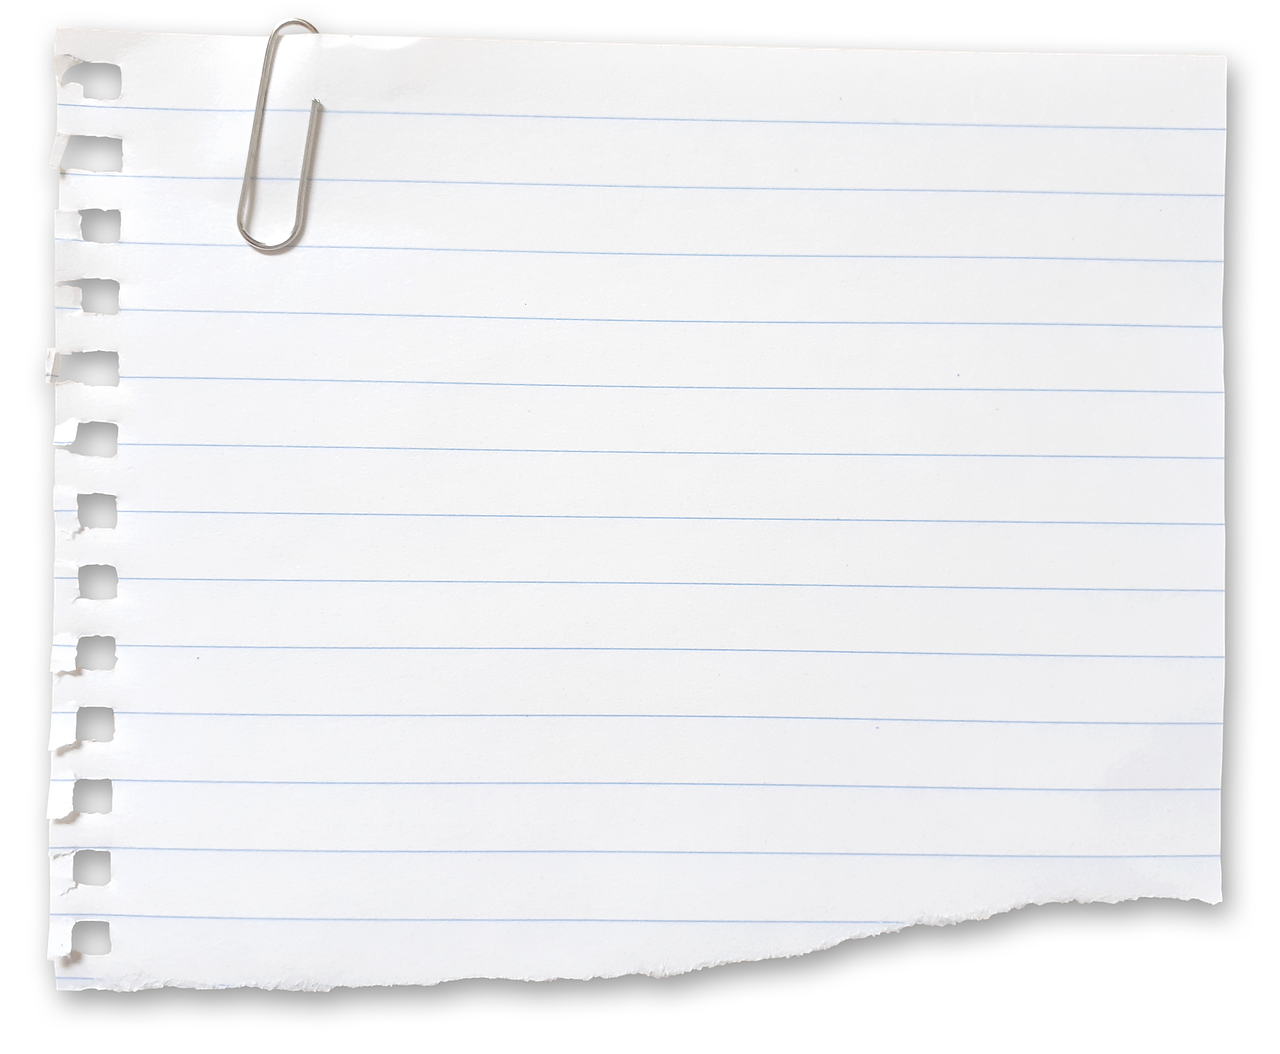
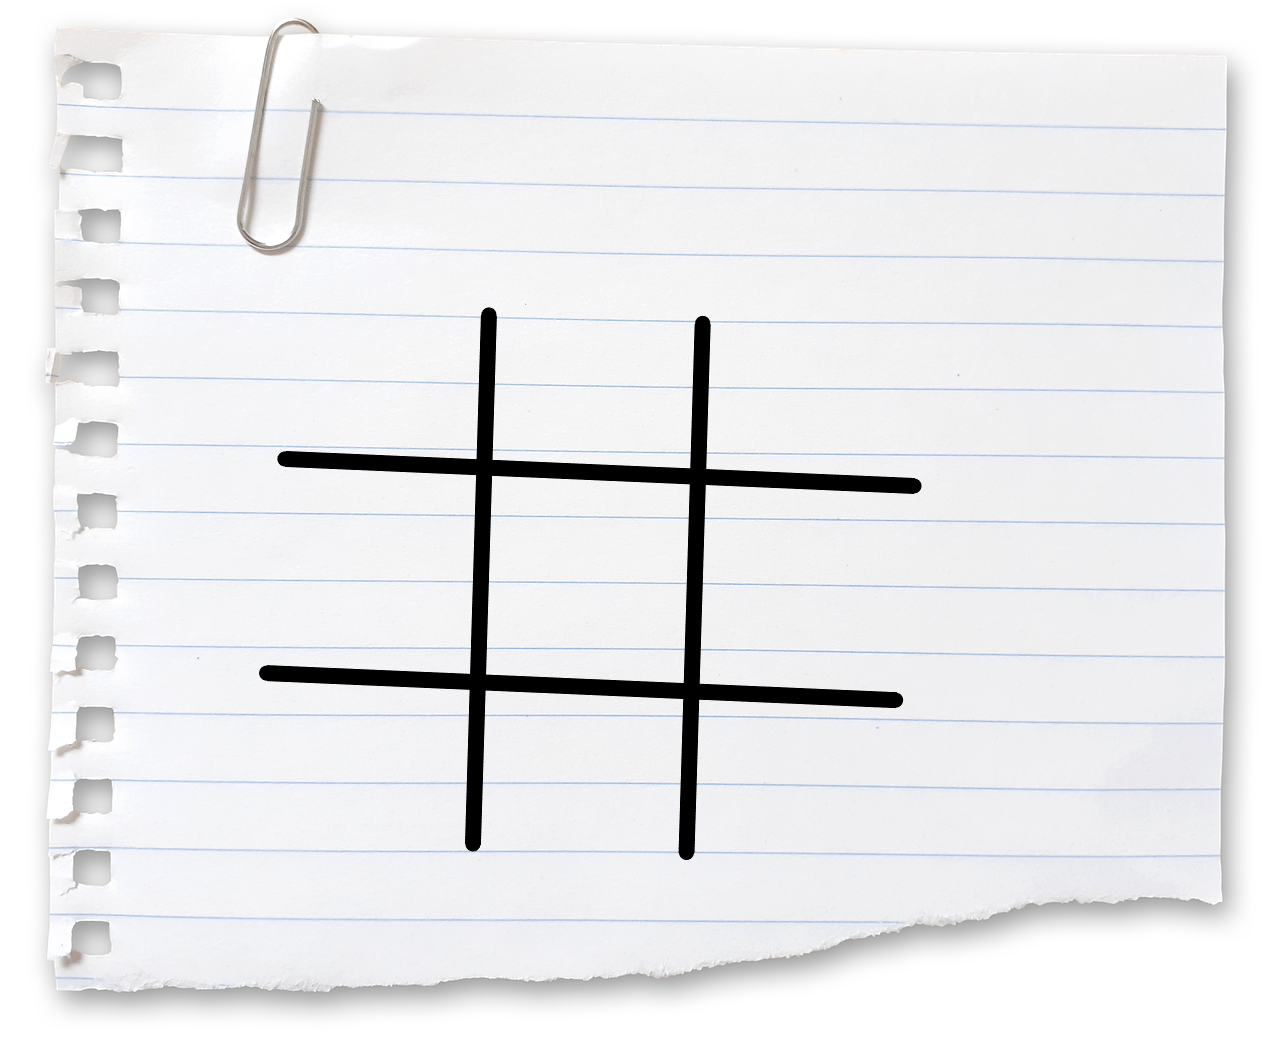
GridPane works

Changed region(s): [[0.1875, 0.2732, 0.7188, 0.8197]]

diff --git a/src/main/java/com/example/game/Main.java b/src/main/java/com/example/game/Main.java
@@ -1,15 +1,22 @@
 package com.example.game;
 
 import javafx.application.Application;
+import javafx.geometry.Insets;
 import javafx.geometry.Orientation;
+import javafx.geometry.Pos;
+import javafx.scene.Group;
 import javafx.scene.Parent;
 import javafx.scene.Scene;
 import javafx.scene.image.Image;
+import javafx.scene.image.ImageView;
 import javafx.scene.layout.*;
 import javafx.scene.paint.Color;
+import javafx.scene.text.FontWeight;
 import javafx.stage.Stage;
 
+import java.awt.*;
 import java.io.IOException;
+import java.util.concurrent.Flow;
 
 public class Main extends Application {
 
@@ -19,23 +26,70 @@ public class Main extends Application {
 
     private final Image imageback = new Image("file:src/main/resources/Images/Background.png");
     private final Image circle = new Image("file:src/main/resources/Images/Circle.png");
-    private FlowPane circles = new FlowPane(Orientation.HORIZONTAL);
+
+    private final FlowPane circles1 = new FlowPane(Orientation.HORIZONTAL);
+    private final FlowPane circles2 = new FlowPane(Orientation.HORIZONTAL);
+    private final FlowPane circles3 = new FlowPane(Orientation.HORIZONTAL);
 
     @Override
     public void start(Stage primaryStage) throws IOException {
 
-        BackgroundSize backgroundSize = new BackgroundSize(100, 100, true, true, true, false);
-        BackgroundImage backgroundImage = new BackgroundImage(imageback, BackgroundRepeat.REPEAT, BackgroundRepeat.NO_REPEAT, BackgroundPosition.CENTER, backgroundSize);
+        BackgroundSize backgroundSize = new BackgroundSize(800, 600, false, false, true, false);
+        BackgroundImage backgroundImage = new BackgroundImage(imageback, BackgroundRepeat.NO_REPEAT, BackgroundRepeat.NO_REPEAT, BackgroundPosition.CENTER, backgroundSize);
         Background background = new Background(backgroundImage);
 
+
+
         GridPane grid = new GridPane();
+        grid.isResizable();
+        grid.setPadding(new Insets(170, 200, 100, 200));
+        /*grid.setMaxSize(45,45);
+        grid.setPrefSize(40, 40);
+        grid.setMinSize(35,35);*/
+
+        int rowCount = 3;
+        int columnCount = 3;
+
+        RowConstraints rc = new RowConstraints();
+        rc.setPercentHeight(100d / rowCount);
+
+        for (int i = 0; i < rowCount; i++) {
+            grid.getRowConstraints().add(rc);
+        }
+
+        ColumnConstraints cc = new ColumnConstraints();
+        cc.setPercentWidth(100d / columnCount);
+
+        for (int i = 0; i < columnCount; i++) {
+            grid.getColumnConstraints().add(cc);
+        }
 
         grid.setBackground(background);
 
-        Scene scene = new Scene(grid, 800, 600);
+        javafx.scene.control.Label label = new javafx.scene.control.Label("SIEEEEEEEMA!");
+        label.setFont(javafx.scene.text.Font.font("Comic Sans", FontWeight.BOLD, 22));
 
+
+        ImageView img = new ImageView(circle);
+        ImageView img2 = new ImageView(circle);
+        ImageView img3 = new ImageView(circle);
+
+        circles1.getChildren().add(img);
+        circles2.getChildren().add(img2);
+        circles3.getChildren().add(img3);
+
+        //grid.add(label, 0, 0, 3, 1);
+        grid.add(circles1, 2, 0, 1, 1);
+        grid.add(circles2, 2, 1, 1, 1);
+        grid.add(circles3, 2, 2, 1, 1);
+
+        grid.setAlignment(Pos.CENTER);
+        grid.setHgap(1);
+        grid.setVgap(30);
+        Scene scene = new Scene(grid, 800, 600);
         primaryStage.setTitle("TicTacToe");
         primaryStage.setScene(scene);
+        primaryStage.setResizable(false);
         primaryStage.show();
     }
 }

diff --git a/src/main/java/com/example/game/Figure.java b/src/main/java/com/example/game/Figure.java
@@ -1,0 +1,5 @@
+package com.example.game;
+
+public class Figure {
+
+}
